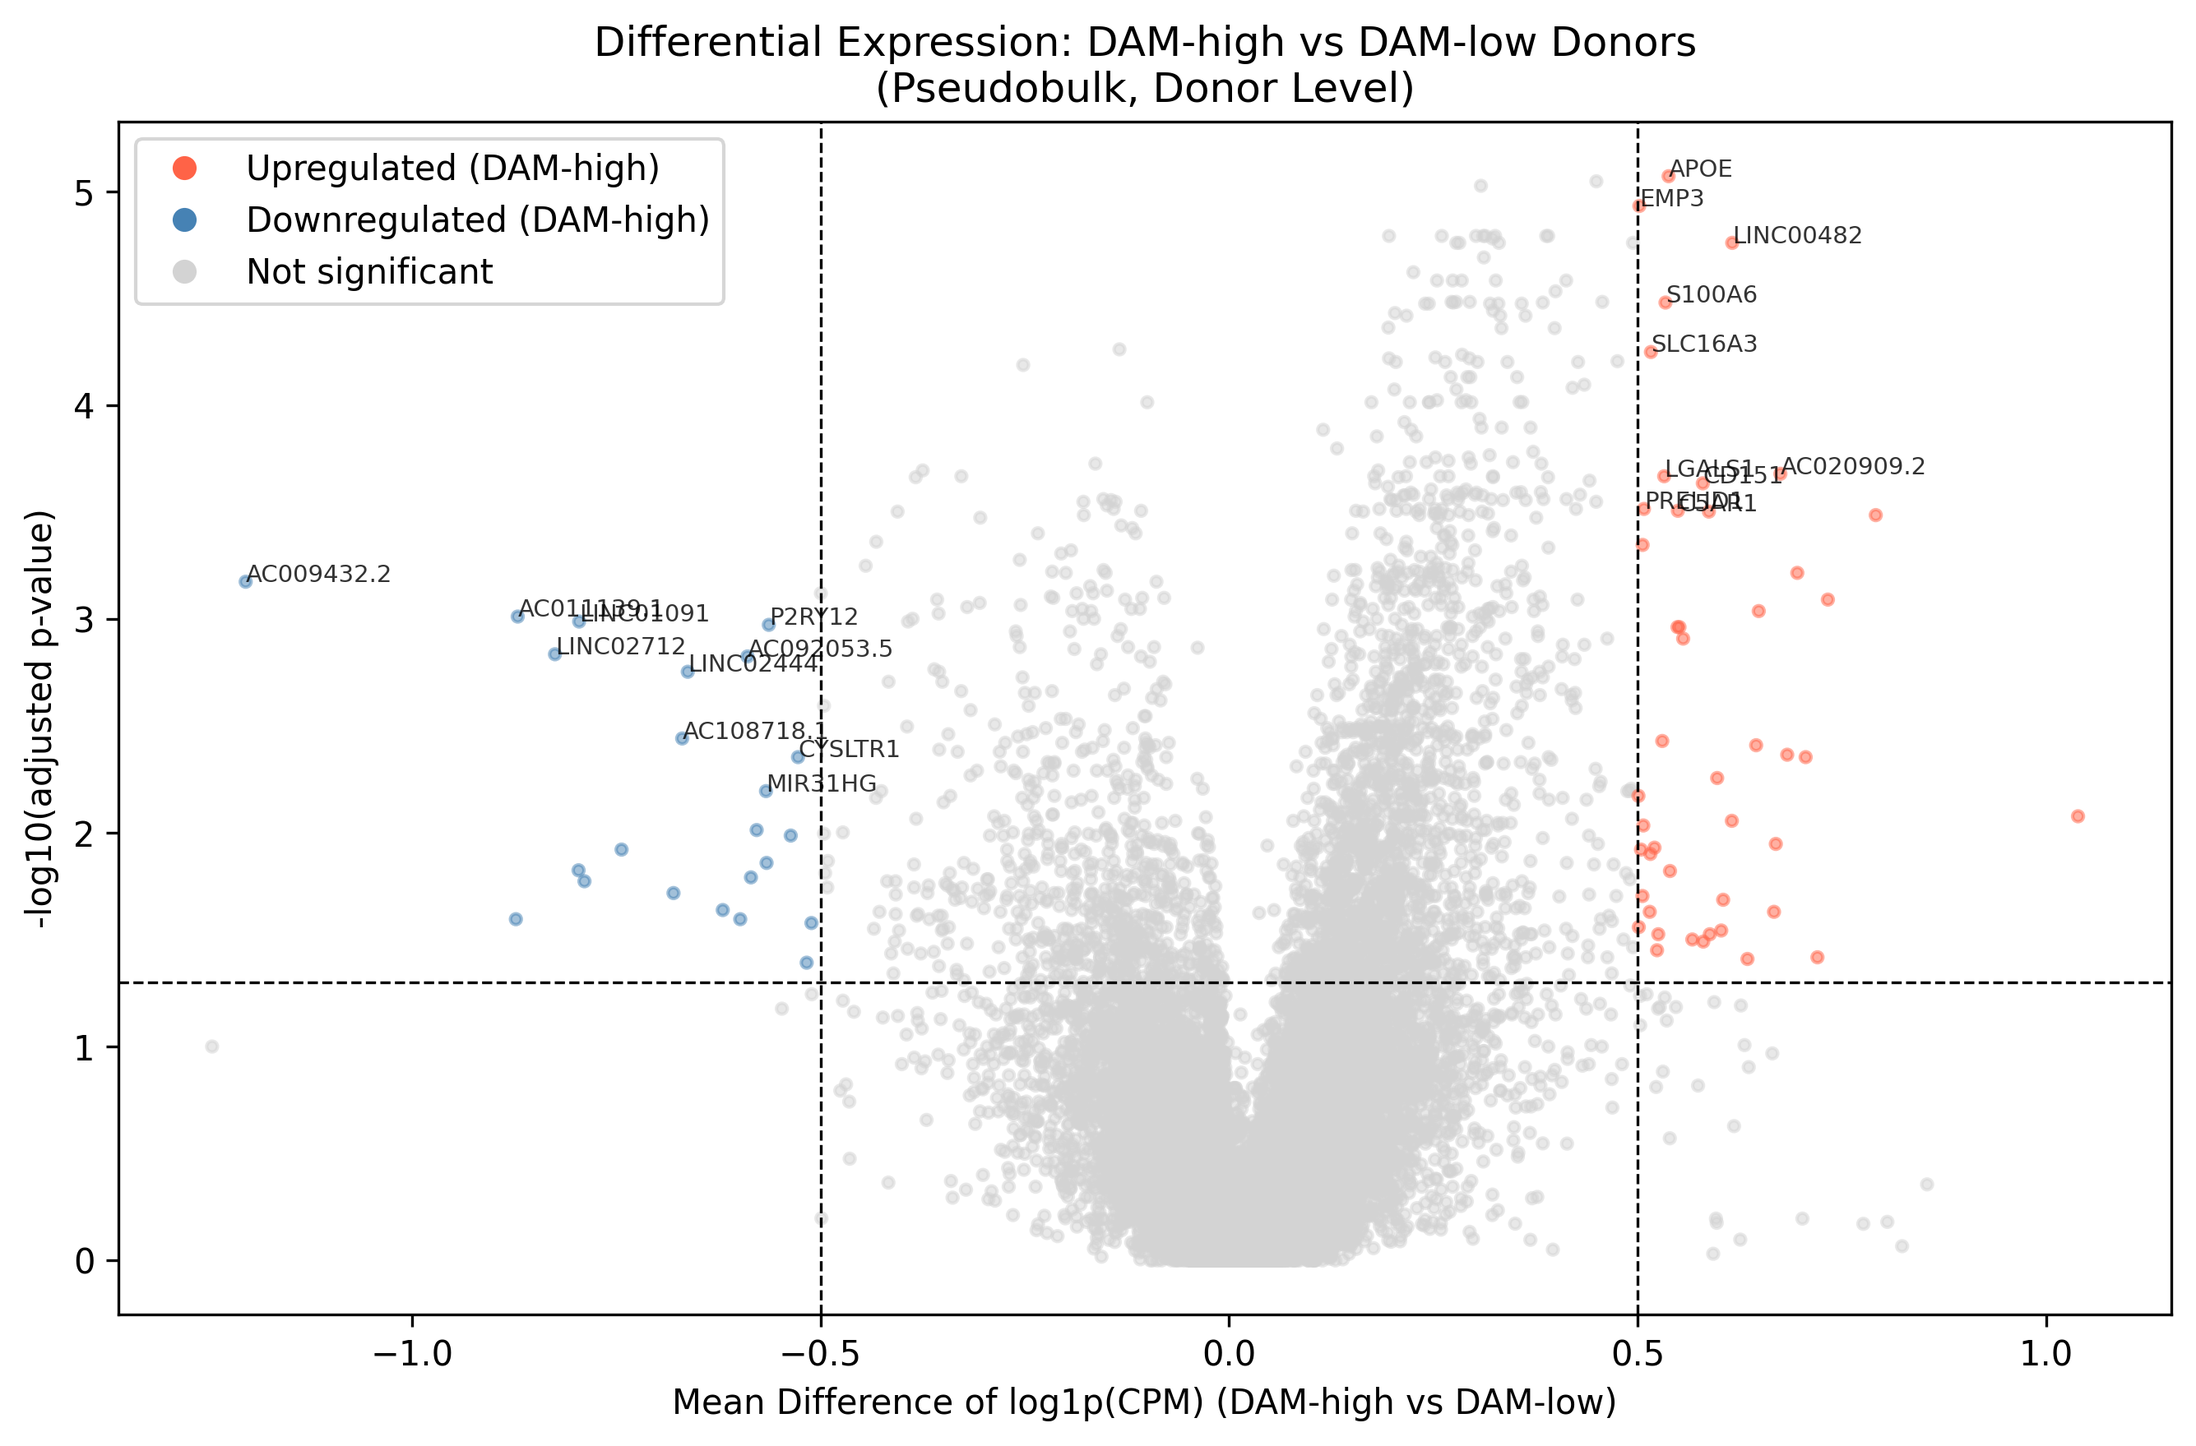
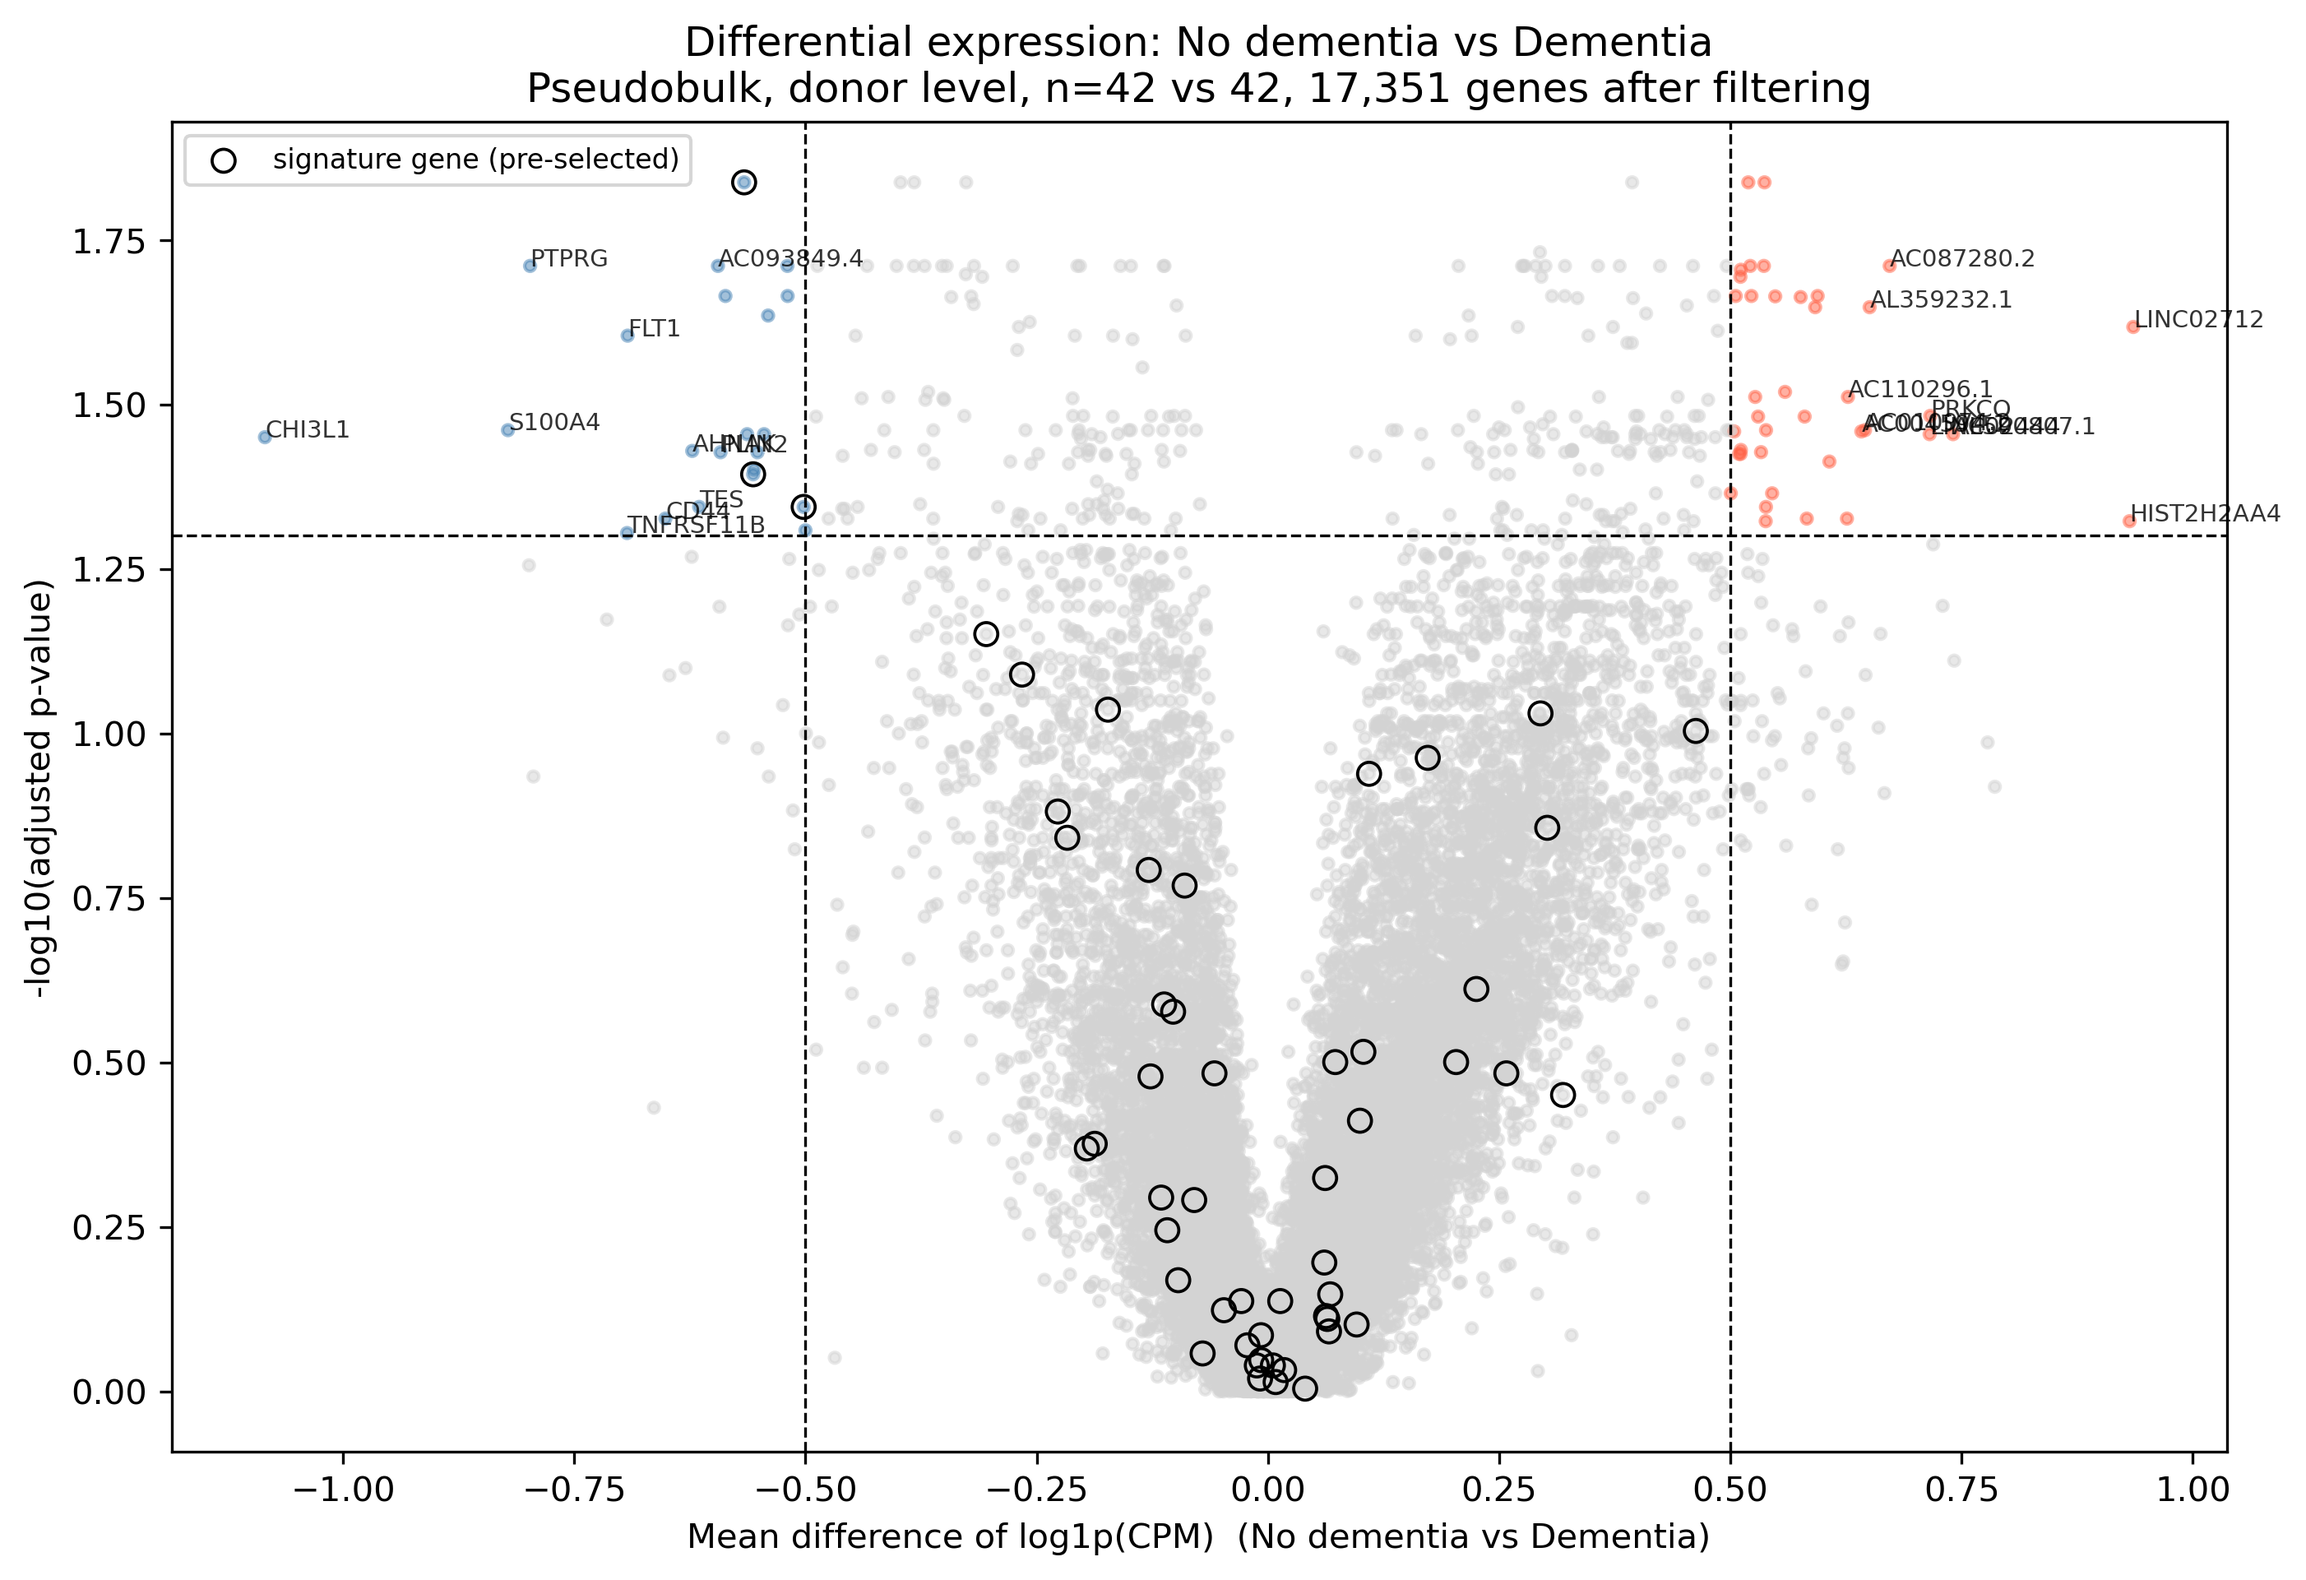
Updated SEAAD project
^^

diff --git a/js/projects-data.js b/js/projects-data.js
@@ -12,19 +12,19 @@
 const PROJECTS = [
   {
     slug: "seaad-transcriptomics",
-    title: "SEA-AD Single-Cell Transcriptomics Analysis",
+    title: "SEA-AD Single-Nucleus Transcriptomics Analysis of Microglia",
     year: "2026",
     //blurb: "A scRNA-seq analysis of 240k microglia that quantifies how they shift into disease-associated activation states across Alzheimer's severity and genetic risk",
     
     
     description:
-      "Created a complete single-cell RNA-seq pipeline to 240,651 microglial transcriptomes from 84 post-mortem donors, quantifying how microglia (brain immune cells) shift between homeostatic and disease-associated programs (DAM) across Alzheimer's disease. Using curated DAM and homeostatic gene signatures across 8 annotated cell supertypes, linking DAM activation to dementia status (Spearman rho = 0.252, p = 0.021), recovering the canonical transition signature with APOE/SPP1 upregulation and P2RY12/CX3CR1 downregulation. Performed a donor-level pseudobulk differential expression analysis on raw UMI counts, identifying 46 upregulated and 23 downregulated genes.",
+      "Microglia are the brain's resident immune cells. In Alzheimer's disease (AD) they shift out of their normal surveillance state into an activated one. Keren-Shaul et al. (2017) described this in mice and called the activated cells disease-associated microglia (DAM). They showed the change happens in two steps: a first step that does not need the TREM2 gene, and a second that does. That signature was defined in mouse cells. This project explores whether it holds up in human brain tissue. The data comes from the Seattle Alzheimer's Disease Brain Cell Atlas (SEA-AD), which profiled single nuclei from 84 donors spanning the full range of AD pathology (no disease to severe). Working from this, I scored each microglial nucleus against the mouse DAM and homeostatic gene lists, averaged those scores per donor, and tested them against the donors' neuropathology and cognitive records. What I found out was that the mouse signature transfers only partially.",
     
 
       tags: ["Scanpy", "AnnData", "Numpy", "Scipy", "pandas", "Matplotlib", "Seaborn"],
     link: "https://github.com/wnguyen36/seaad-microglia-analysis",
     linkLabel: "View on GitHub",
-    images: ["assets/seaad1.png", "assets/seaad2.png", "assets/seaad3.png", "assets/seaad4.png", "assets/seaad5.png", "assets/seaad6.png", "assets/seaad7.png", "assets/seaad8.png"]//
+    images: ["assets/seaad1.png","assets/seaad2.png","assets/seaad3.png"]//
   },
   {
     slug: "iv-failure-mode-detection",
